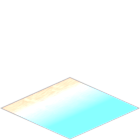
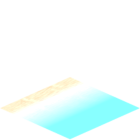
add chests, palms and borders

diff --git a/treasure-island-client/src/main.rs b/treasure-island-client/src/main.rs
@@ -76,6 +76,8 @@ fn main() {
         load_texture_from_file(&mut window, "sand_water_2.png"),
         load_texture_from_file(&mut window, "sand_water_3.png"),
         load_texture_from_file(&mut window, "sand_water_4.png"),
+        load_texture_from_file(&mut window, "palm_1.png"),
+        load_texture_from_file(&mut window, "chest_1.png"),
     ];
 
     const TILES_AMOUNT: usize = 400;
@@ -119,13 +121,14 @@ fn main() {
             continue;
         }
 
-        *tile = range.gen_range(0..4) as usize;
+        const FIRST_SAND_TILE_INDEX: usize = 0;
+        const SAND_TILES_AMOUNT: usize = 4;
+        *tile = range.gen_range(FIRST_SAND_TILE_INDEX..SAND_TILES_AMOUNT) as usize;
     }
 
     /* FIXME: to be removed, only for tests purposes */
-    tiles[380] = 4;
-    tiles[381] = 4;
-    tiles[382] = 4;
+    tiles[365] = 8;
+    tiles[366] = 9;
 
     let mut origin_horizontal_position: f64 = 0.0;
     let mut origin_vertical_position: f64 = 0.0;
@@ -170,7 +173,7 @@ fn main() {
 
         window.draw_2d(
             &event,
-            |context, window, _device| {
+            |context, window, _| {
 
                 const BACKGROUND_COLOR: &str = "88FFFF"; /* light blue */
                 clear(hex(BACKGROUND_COLOR), window);

diff --git a/treasure-island-client/src/gui.rs b/treasure-island-client/src/gui.rs
@@ -46,7 +46,7 @@ pub fn display_tiles(
         const TILE_HORIZONTAL_OFFSET: f64 = -75.0;
         const TILE_VERTICAL_OFFSET: f64 = -25.0;
 
-        const TILE_HORIZONTAL_DISTANCE: f64 = 67.0;
+        const TILE_HORIZONTAL_DISTANCE: f64 = 69.0;
         let tile_horizontal_position = TILE_HORIZONTAL_OFFSET -
             TILE_HORIZONTAL_DISTANCE * (column as f64) +
             TILE_HORIZONTAL_DISTANCE * (line as f64) +
@@ -59,7 +59,7 @@ pub fn display_tiles(
             continue;
         }
 
-        const TILE_VERTICAL_DISTANCE: f64 = 30.0;
+        const TILE_VERTICAL_DISTANCE: f64 = 31.0;
         let tile_vertical_position = TILE_VERTICAL_OFFSET +
             TILE_VERTICAL_DISTANCE * (column as f64) +
             TILE_VERTICAL_DISTANCE * (line as f64) +
